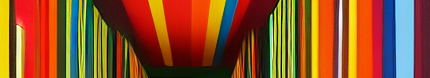
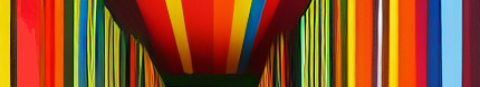
update colour and nav img height

diff --git a/src/styles.css b/src/styles.css
@@ -16,11 +16,69 @@ h1 {
     font-size: 72px;
 }
 
-body {
+
+/* body {
     background-color: black;
+} */
+
+body {
+    background: #e0190b;
+    /* For browsers that do not support gradients */
+    background: -webkit-linear-gradient(-90deg, #e0190b, #f33f05, #deb401, #00629e);
+    /* For Safari 5.1 to 6.0 */
+    background: -o-linear-gradient(-90deg, #e0190b, #f33f05, #deb401, #00629e);
+    /* For Opera 11.1 to 12.0 */
+    background: -moz-linear-gradient(-90deg, #e0190b, #f33f05, #deb401, #00629e);
+    /* For Firefox 3.6 to 15 */
+    background: linear-gradient(-90deg, #e0190b, #f33f05, #deb401, #00629e);
+    /* Standard syntax (must be last) */
 }
 
-button,
+.col-3 {
+    padding: 10px;
+    text-align: center;
+}
+
+#avatar {
+    width: 100px;
+}
+
+#world {
+    width: 100px;
+}
+
+#playButton {
+    width: 100px;
+    background-color: #e0190b;
+    border: none;
+    color: white;
+    padding: 15px 32px;
+    text-align: center;
+    text-decoration: none;
+    display: inline-block;
+    font-size: 16px;
+    margin: 4px 2px;
+    cursor: pointer;
+}
+
+#playButton:hover {
+    background-color: #f33f05;
+}
+
+bold {
+    font-weight: bold;
+}
+
+hr {
+    border: 1px solid #deb401;
+}
+
+p {
+    color: #00629e;
+}
+
+
+/* button,
 button::after {
     width: 240px;
     height: 80px;
@@ -105,4 +163,4 @@ button:hover::after {
         clip-path: var(--slice-1);
         transform: translate(0);
     }
-}
+} */
